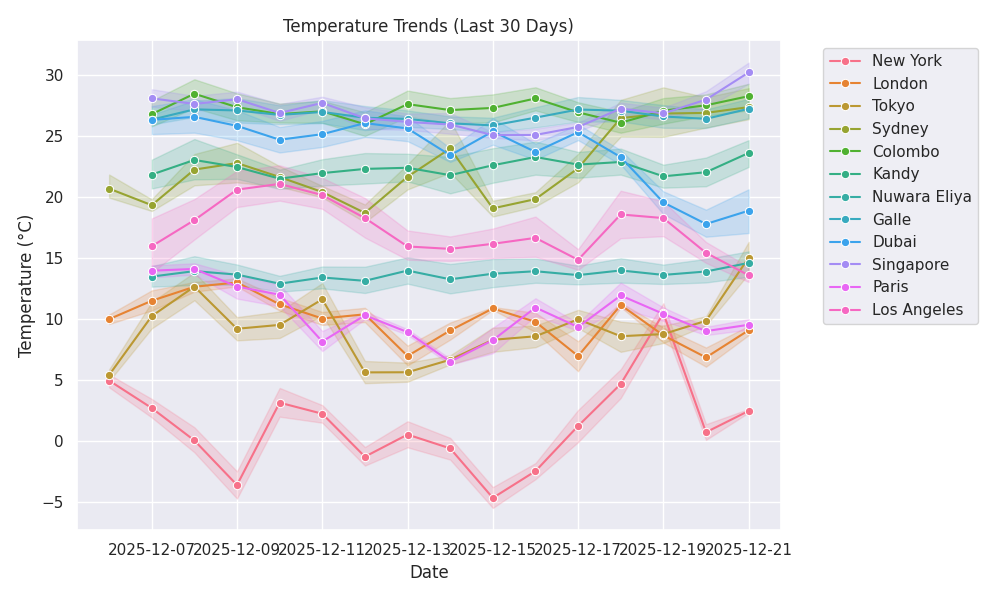
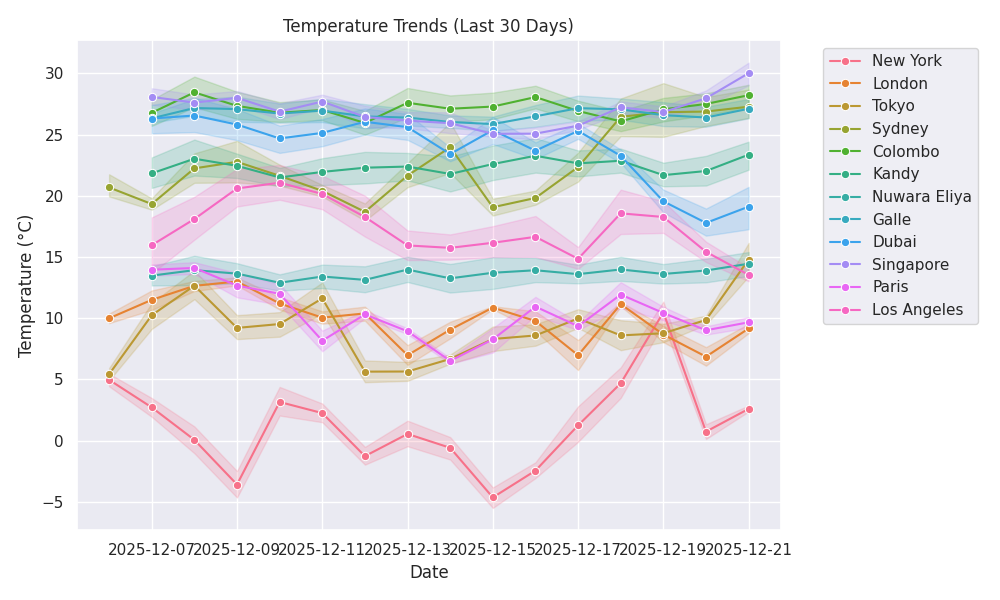
🌦 Weather update: 2025-12-21 14:12

diff --git a/public/index.html b/public/index.html
@@ -11,7 +11,7 @@
     <div class="max-w-6xl mx-auto">
         <header class="mb-8 text-center">
             <h1 class="text-4xl font-bold mb-2">🌍 Global Weather Dashboard</h1>
-            <p class="text-slate-400">Last Updated: 2025-12-21 13:22:30</p>
+            <p class="text-slate-400">Last Updated: 2025-12-21 14:12:19</p>
         </header>
         
         <!-- AI Summary -->
@@ -29,12 +29,12 @@
                     <span class="text-3xl">🌧</span>
                 </div>
                 <div class="mt-4">
-                    <p class="text-4xl font-bold">10.88°C</p>
-                    <p class="text-slate-400 capitalize">moderate rain</p>
+                    <p class="text-4xl font-bold">11.27°C</p>
+                    <p class="text-slate-400 capitalize">light rain</p>
                 </div>
                 <div class="mt-4 text-sm text-slate-500">
-                    <p>💧 Humidity: 98%</p>
-                    <p>💨 Wind: 4.12 m/s</p>
+                    <p>💧 Humidity: 97%</p>
+                    <p>💨 Wind: 5.14 m/s</p>
                 </div>
             </div>
             
@@ -44,27 +44,27 @@
                     <span class="text-3xl">☁</span>
                 </div>
                 <div class="mt-4">
-                    <p class="text-4xl font-bold">10.17°C</p>
-                    <p class="text-slate-400 capitalize">overcast clouds</p>
+                    <p class="text-4xl font-bold">10.1°C</p>
+                    <p class="text-slate-400 capitalize">few clouds</p>
                 </div>
                 <div class="mt-4 text-sm text-slate-500">
                     <p>💧 Humidity: 89%</p>
-                    <p>💨 Wind: 5.14 m/s</p>
+                    <p>💨 Wind: 4.63 m/s</p>
                 </div>
             </div>
             
             <div class="bg-slate-800 p-6 rounded-xl shadow-lg border-t-4 border-blue-500 hover:scale-105 transition-transform">
                 <div class="flex justify-between items-start">
                     <h3 class="text-xl font-bold">Sydney</h3>
-                    <span class="text-3xl">🌧</span>
+                    <span class="text-3xl">☁</span>
                 </div>
                 <div class="mt-4">
-                    <p class="text-4xl font-bold">25.7°C</p>
-                    <p class="text-slate-400 capitalize">light rain</p>
+                    <p class="text-4xl font-bold">26.38°C</p>
+                    <p class="text-slate-400 capitalize">scattered clouds</p>
                 </div>
                 <div class="mt-4 text-sm text-slate-500">
-                    <p>💧 Humidity: 74%</p>
-                    <p>💨 Wind: 4.63 m/s</p>
+                    <p>💧 Humidity: 69%</p>
+                    <p>💨 Wind: 3.6 m/s</p>
                 </div>
             </div>
             
@@ -74,12 +74,12 @@
                     <span class="text-3xl">☁</span>
                 </div>
                 <div class="mt-4">
-                    <p class="text-4xl font-bold">28.07°C</p>
+                    <p class="text-4xl font-bold">27.9°C</p>
                     <p class="text-slate-400 capitalize">broken clouds</p>
                 </div>
                 <div class="mt-4 text-sm text-slate-500">
-                    <p>💧 Humidity: 73%</p>
-                    <p>💨 Wind: 3.6 m/s</p>
+                    <p>💧 Humidity: 74%</p>
+                    <p>💨 Wind: 3.09 m/s</p>
                 </div>
             </div>
             
@@ -94,7 +94,7 @@
                 </div>
                 <div class="mt-4 text-sm text-slate-500">
                     <p>💧 Humidity: 49%</p>
-                    <p>💨 Wind: 3.09 m/s</p>
+                    <p>💨 Wind: 3.6 m/s</p>
                 </div>
             </div>
             
@@ -104,12 +104,12 @@
                     <span class="text-3xl">☁</span>
                 </div>
                 <div class="mt-4">
-                    <p class="text-4xl font-bold">12.83°C</p>
+                    <p class="text-4xl font-bold">12.68°C</p>
                     <p class="text-slate-400 capitalize">overcast clouds</p>
                 </div>
                 <div class="mt-4 text-sm text-slate-500">
                     <p>💧 Humidity: 98%</p>
-                    <p>💨 Wind: 1.49 m/s</p>
+                    <p>💨 Wind: 1.71 m/s</p>
                 </div>
             </div>
             
@@ -119,12 +119,12 @@
                     <span class="text-3xl">☁</span>
                 </div>
                 <div class="mt-4">
-                    <p class="text-4xl font-bold">25.97°C</p>
+                    <p class="text-4xl font-bold">25.82°C</p>
                     <p class="text-slate-400 capitalize">overcast clouds</p>
                 </div>
                 <div class="mt-4 text-sm text-slate-500">
-                    <p>💧 Humidity: 80%</p>
-                    <p>💨 Wind: 1.14 m/s</p>
+                    <p>💧 Humidity: 81%</p>
+                    <p>💨 Wind: 1.12 m/s</p>
                 </div>
             </div>
             
@@ -134,12 +134,12 @@
                     <span class="text-3xl">☁</span>
                 </div>
                 <div class="mt-4">
-                    <p class="text-4xl font-bold">20.8°C</p>
+                    <p class="text-4xl font-bold">20.45°C</p>
                     <p class="text-slate-400 capitalize">overcast clouds</p>
                 </div>
                 <div class="mt-4 text-sm text-slate-500">
-                    <p>💧 Humidity: 98%</p>
-                    <p>💨 Wind: 1.84 m/s</p>
+                    <p>💧 Humidity: 99%</p>
+                    <p>💨 Wind: 2.01 m/s</p>
                 </div>
             </div>
             
@@ -154,7 +154,7 @@
                 </div>
                 <div class="mt-4 text-sm text-slate-500">
                     <p>💧 Humidity: 74%</p>
-                    <p>💨 Wind: 4.95 m/s</p>
+                    <p>💨 Wind: 4.83 m/s</p>
                 </div>
             </div>
             
@@ -164,12 +164,12 @@
                     <span class="text-3xl">☀</span>
                 </div>
                 <div class="mt-4">
-                    <p class="text-4xl font-bold">2.31°C</p>
+                    <p class="text-4xl font-bold">3.97°C</p>
                     <p class="text-slate-400 capitalize">clear sky</p>
                 </div>
                 <div class="mt-4 text-sm text-slate-500">
-                    <p>💧 Humidity: 81%</p>
-                    <p>💨 Wind: 5.14 m/s</p>
+                    <p>💧 Humidity: 72%</p>
+                    <p>💨 Wind: 7.2 m/s</p>
                 </div>
             </div>
             
@@ -179,12 +179,12 @@
                     <span class="text-3xl">🌧</span>
                 </div>
                 <div class="mt-4">
-                    <p class="text-4xl font-bold">12.77°C</p>
-                    <p class="text-slate-400 capitalize">light intensity shower rain</p>
+                    <p class="text-4xl font-bold">12.01°C</p>
+                    <p class="text-slate-400 capitalize">moderate rain</p>
                 </div>
                 <div class="mt-4 text-sm text-slate-500">
-                    <p>💧 Humidity: 76%</p>
-                    <p>💨 Wind: 5.14 m/s</p>
+                    <p>💧 Humidity: 78%</p>
+                    <p>💨 Wind: 0.45 m/s</p>
                 </div>
             </div>
             
@@ -194,12 +194,12 @@
                     <span class="text-3xl">🌫</span>
                 </div>
                 <div class="mt-4">
-                    <p class="text-4xl font-bold">12.81°C</p>
+                    <p class="text-4xl font-bold">12.98°C</p>
                     <p class="text-slate-400 capitalize">mist</p>
                 </div>
                 <div class="mt-4 text-sm text-slate-500">
-                    <p>💧 Humidity: 92%</p>
-                    <p>💨 Wind: 0.0 m/s</p>
+                    <p>💧 Humidity: 93%</p>
+                    <p>💨 Wind: 1.54 m/s</p>
                 </div>
             </div>
             

diff --git a/README.md b/README.md
@@ -8,8 +8,8 @@
 
 ---
 
-## ⚡ Live Status (Updated: 2025-12-21 13:22 UTC)
-![Paris](https://img.shields.io/badge/Paris-10.88°C-blue) ![London](https://img.shields.io/badge/London-10.17°C-blue) ![Sydney](https://img.shields.io/badge/Sydney-25.7°C-orange) ![Singapore](https://img.shields.io/badge/Singapore-28.07°C-orange) ![Dubai](https://img.shields.io/badge/Dubai-21.96°C-green) ![Nuwara Eliya](https://img.shields.io/badge/Nuwara%20Eliya-12.83°C-blue) ![Galle](https://img.shields.io/badge/Galle-25.97°C-orange) ![Kandy](https://img.shields.io/badge/Kandy-20.8°C-green) ![Colombo](https://img.shields.io/badge/Colombo-27.8°C-orange) ![New York](https://img.shields.io/badge/New%20York-2.31°C-blue) ![Tokyo](https://img.shields.io/badge/Tokyo-12.77°C-blue) ![Los Angeles](https://img.shields.io/badge/Los%20Angeles-12.81°C-blue) 
+## ⚡ Live Status (Updated: 2025-12-21 14:12 UTC)
+![Paris](https://img.shields.io/badge/Paris-11.27°C-blue) ![London](https://img.shields.io/badge/London-10.1°C-blue) ![Sydney](https://img.shields.io/badge/Sydney-26.38°C-orange) ![Singapore](https://img.shields.io/badge/Singapore-27.9°C-orange) ![Dubai](https://img.shields.io/badge/Dubai-21.96°C-green) ![Nuwara Eliya](https://img.shields.io/badge/Nuwara%20Eliya-12.68°C-blue) ![Galle](https://img.shields.io/badge/Galle-25.82°C-orange) ![Kandy](https://img.shields.io/badge/Kandy-20.45°C-green) ![Colombo](https://img.shields.io/badge/Colombo-27.8°C-orange) ![New York](https://img.shields.io/badge/New%20York-3.97°C-blue) ![Tokyo](https://img.shields.io/badge/Tokyo-12.01°C-blue) ![Los Angeles](https://img.shields.io/badge/Los%20Angeles-12.98°C-blue) 
 
 <div align="center">
   <h3>🏆 Weather Records (Live)</h3>
@@ -19,8 +19,8 @@
         <td align="center">❄ <b>Coldest City</b></td>
     </tr>
     <tr>
-        <td align="center"><b>Singapore</b><br>28.07°C</td>
-        <td align="center"><b>New York</b><br>2.31°C</td>
+        <td align="center"><b>Singapore</b><br>27.9°C</td>
+        <td align="center"><b>New York</b><br>3.97°C</td>
     </tr>
   </table>
 </div>
@@ -28,18 +28,18 @@
 ## 📊 Global Overview
 | 🌍 City | 🌡 Temp | 🌤 Condition | 💧 Humidity | 🌬 Wind |
 |---|---|---|---|---|
-| **Paris** | 10.88°C | moderate rain | 🟦🟦🟦🟦⬜ 98% | 4.12 m/s |
-| **London** | 10.17°C | overcast clouds | 🟦🟦🟦🟦⬜ 89% | 5.14 m/s |
-| **Sydney** | 25.7°C | light rain | 🟦🟦🟦⬜⬜ 74% | 4.63 m/s |
-| **Singapore** | 28.07°C | broken clouds | 🟦🟦🟦⬜⬜ 73% | 3.6 m/s |
-| **Dubai** | 21.96°C | clear sky | 🟦🟦⬜⬜⬜ 49% | 3.09 m/s |
-| **Nuwara Eliya** | 12.83°C | overcast clouds | 🟦🟦🟦🟦⬜ 98% | 1.49 m/s |
-| **Galle** | 25.97°C | overcast clouds | 🟦🟦🟦🟦⬜ 80% | 1.14 m/s |
-| **Kandy** | 20.8°C | overcast clouds | 🟦🟦🟦🟦⬜ 98% | 1.84 m/s |
-| **Colombo** | 27.8°C | overcast clouds | 🟦🟦🟦⬜⬜ 74% | 4.95 m/s |
-| **New York** | 2.31°C | clear sky | 🟦🟦🟦🟦⬜ 81% | 5.14 m/s |
-| **Tokyo** | 12.77°C | light intensity shower rain | 🟦🟦🟦⬜⬜ 76% | 5.14 m/s |
-| **Los Angeles** | 12.81°C | mist | 🟦🟦🟦🟦⬜ 92% | 0.0 m/s |
+| **Paris** | 11.27°C | light rain | 🟦🟦🟦🟦⬜ 97% | 5.14 m/s |
+| **London** | 10.1°C | few clouds | 🟦🟦🟦🟦⬜ 89% | 4.63 m/s |
+| **Sydney** | 26.38°C | scattered clouds | 🟦🟦🟦⬜⬜ 69% | 3.6 m/s |
+| **Singapore** | 27.9°C | broken clouds | 🟦🟦🟦⬜⬜ 74% | 3.09 m/s |
+| **Dubai** | 21.96°C | clear sky | 🟦🟦⬜⬜⬜ 49% | 3.6 m/s |
+| **Nuwara Eliya** | 12.68°C | overcast clouds | 🟦🟦🟦🟦⬜ 98% | 1.71 m/s |
+| **Galle** | 25.82°C | overcast clouds | 🟦🟦🟦🟦⬜ 81% | 1.12 m/s |
+| **Kandy** | 20.45°C | overcast clouds | 🟦🟦🟦🟦⬜ 99% | 2.01 m/s |
+| **Colombo** | 27.8°C | overcast clouds | 🟦🟦🟦⬜⬜ 74% | 4.83 m/s |
+| **New York** | 3.97°C | clear sky | 🟦🟦🟦⬜⬜ 72% | 7.2 m/s |
+| **Tokyo** | 12.01°C | moderate rain | 🟦🟦🟦⬜⬜ 78% | 0.45 m/s |
+| **Los Angeles** | 12.98°C | mist | 🟦🟦🟦🟦⬜ 93% | 1.54 m/s |
 
 
 ## 📈 Temperature Trends
